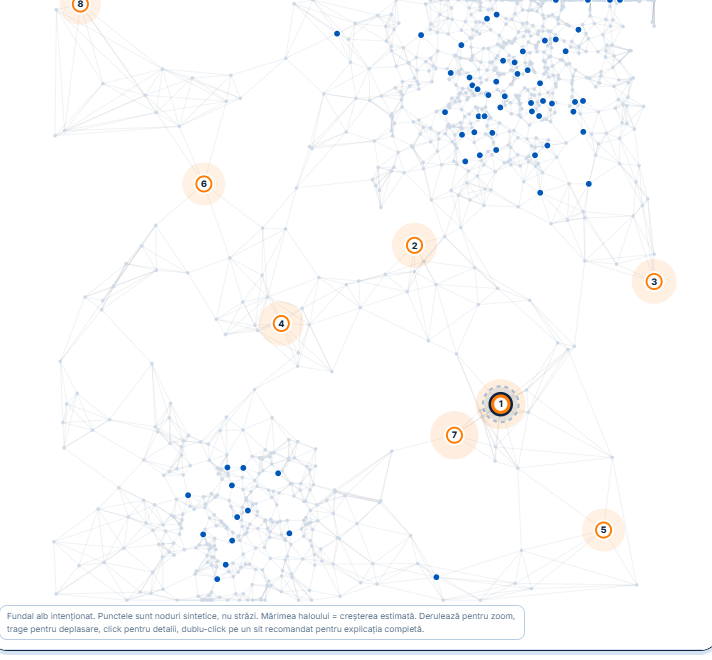
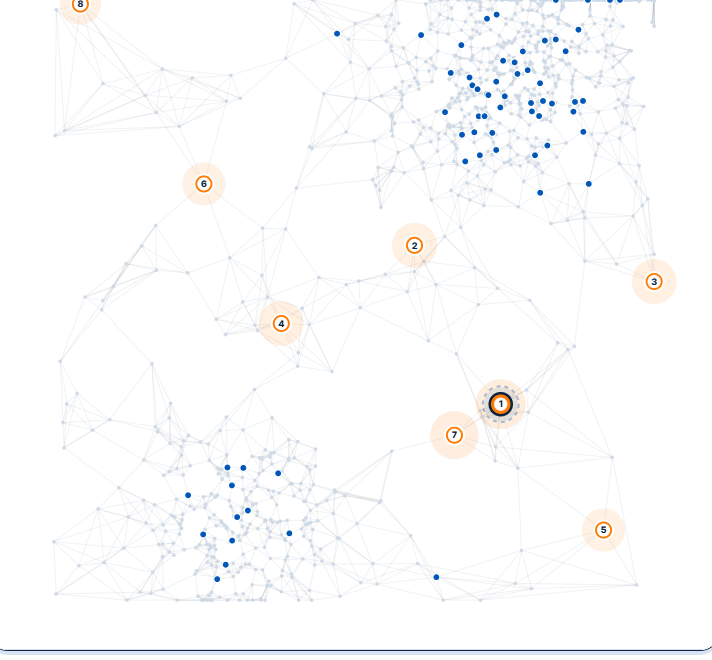
Stergere lucruri irelevante ui

Changed region(s): [[0.0, 0.9091, 0.7416, 0.9697]]

diff --git a/frontend/styles.css b/frontend/styles.css
@@ -300,13 +300,6 @@ p { margin: 0; }
 }
 #mapCanvas { position: absolute; inset: 0; display: block; width: 100%; height: 100%; background: #fff; cursor: crosshair; outline: none; }
 #mapCanvas:focus-visible { box-shadow: inset 0 0 0 3px rgba(0, 87, 184, .25); }
-.map-note {
-  position: absolute; left: 10px; bottom: 9px;
-  background: rgba(255,255,255,.94);
-  border: 1px solid var(--line-strong); border-radius: 8px;
-  padding: 4px 7px; font-size: 8.5px; color: var(--muted);
-  pointer-events: none; max-width: 72%;
-}
 .map-tooltip {
   position: absolute; z-index: 5; pointer-events: none;
   background: var(--ink); color: #fff;

diff --git a/frontend/index.html b/frontend/index.html
@@ -124,7 +124,6 @@
             </div>
             <div class="map-wrap">
               <canvas id="mapCanvas" tabindex="0" aria-label="Hartă sintetică de noduri urbane cu situri de încărcare recomandate"></canvas>
-              <div class="map-note">Fundal alb intenționat. Punctele sunt noduri sintetice, nu străzi. Mărimea haloului = creșterea estimată. Derulează pentru zoom, trage pentru deplasare, click pentru detalii, dublu-click pe un sit recomandat pentru explicația completă.</div>
               <div class="map-tooltip" id="mapTooltip" hidden></div>
             </div>
           </div>
